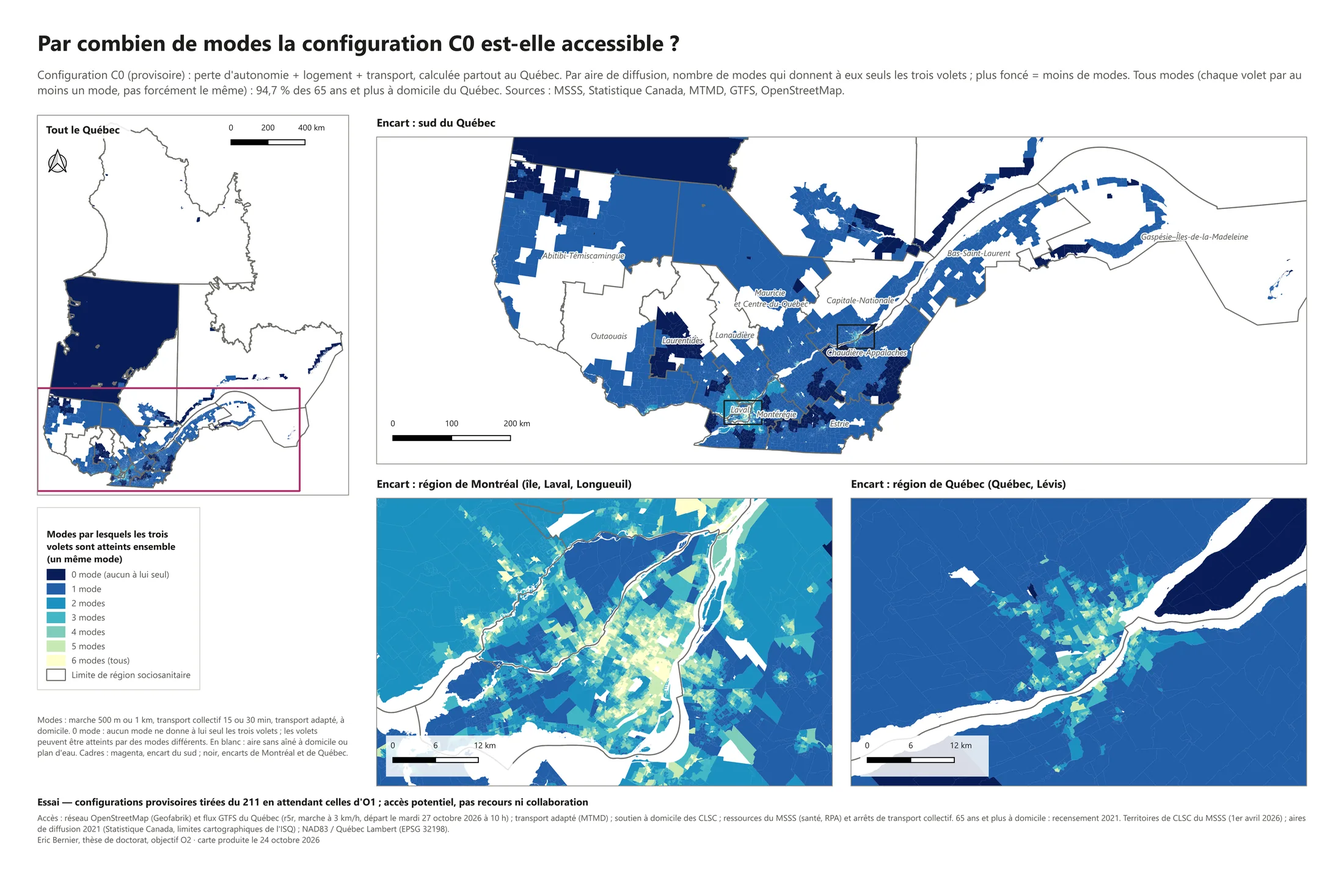
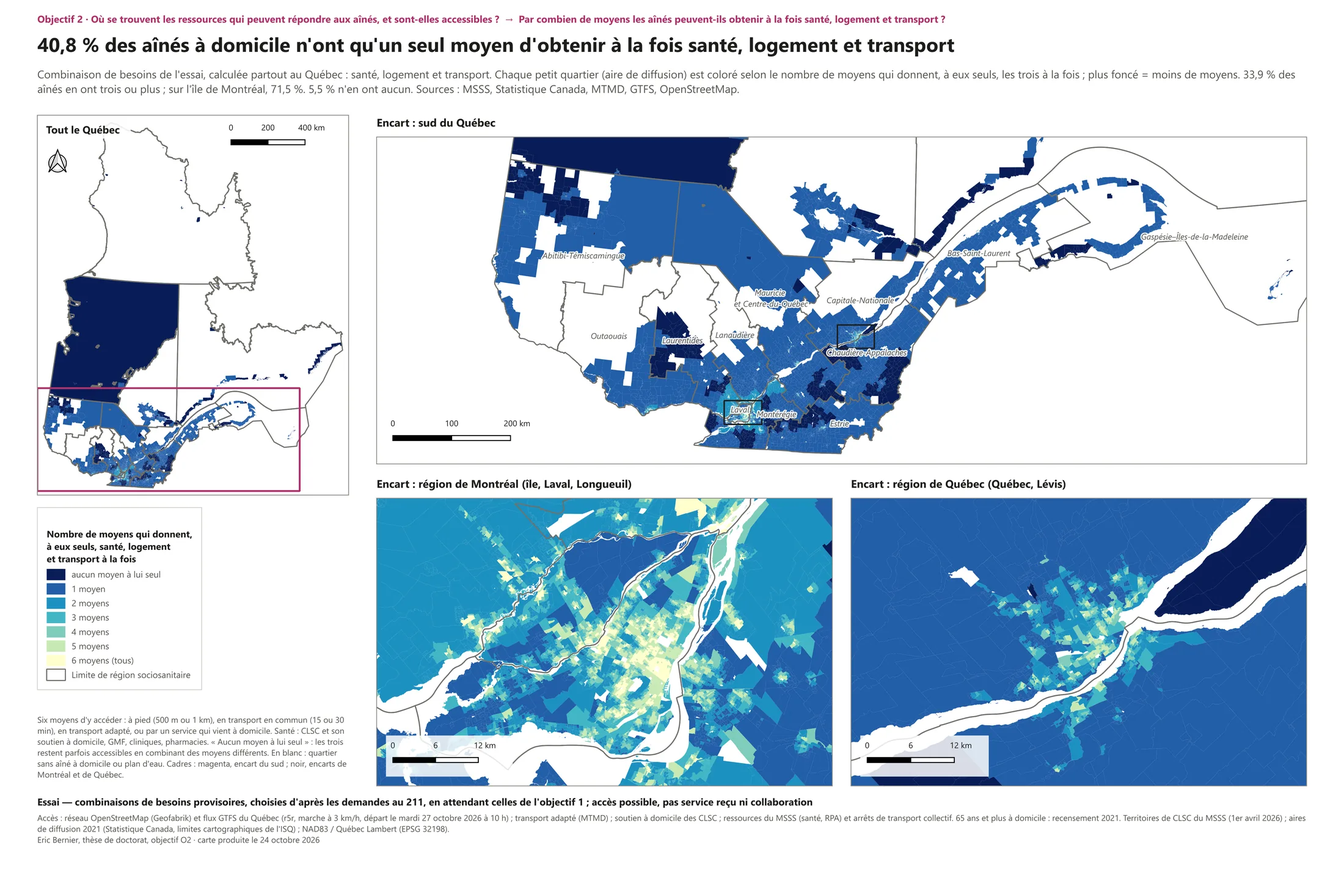
Galerie O2 : chaque carte pose une question de l'objectif 2 et donne la réponse en titre
Codes C0 et C1 remplacés par les besoins en clair (santé, logement, transport ou
soutien social), « modes » par « moyens d'accès », écart et grappes LISA par
« manque » et « groupe de quartiers en manque ». Introduction qui définit les
termes ; menu des cartes rédigé en questions.

diff --git a/index.html b/index.html
@@ -925,15 +925,15 @@ nav.these-methode-parcours[data-objectifs-isoles="oui"] .these-produit-descripti
 <h6 id="o1-plan-b-titre">Si les configurations sont insuffisamment documentées</h6>
 <p>Si les études incluses ne documentent pas suffisamment de combinaisons chez les mêmes personnes, O1 présentera les domaines, associations et lacunes <strong>recensés dans son corpus multidomaine</strong>, sans prétendre couvrir exhaustivement toutes les études consacrées à chaque domaine isolé. Tout élargissement de la recherche documentaire nécessitera une modification explicite du protocole avec le bibliothécaire et les évaluateurs (<abbr title="Joanna Briggs Institute, aujourd’hui nommé JBI" data-sigle="JBI">JBI</abbr>, 2024). La grille de repérage utilisée en O3 devra alors être redéfinie et validée avec la direction de recherche, sans fabriquer de configurations supposément démontrées.</p>
 </aside></div></details><p class="methode-transition-objectif" data-guide-methodologie="transition">La suite utilisera les configurations étayées, sans inventer de configurations ni leur fréquence sur un territoire.</p></section></div><p class="methode-transition-objectif">Les configurations d’O1 précisent les besoins à rapprocher des ressources ; l’inventaire préparatoire d’O2 peut avancer en parallèle. <a href="#these-objectif-vue-o2">Passer à l’objectif 2 →</a></p></article></section>
-<section class="these-objectif-vue methode-objectif-separe" id="these-objectif-vue-o2" data-vue-objectif="O2" aria-label="Méthodologie de l’objectif 2"><article class="these-methode-objectif" data-objectif="O2" id="these-methode-o2" data-cadrage-harmonise="oui" data-methodologie-visuelle="1" data-references-visuelles="1" data-maquette-validee="20261022"><header class="methode-objectif-tete"><h4 class="titre-bloc"><span class="objectif-code">O2</span> Cartographie spatiale</h4><p class="methode-intro-objectif">Ce deuxième volet construit un atlas des ressources intersectorielles mobilisables et accessibles pour répondre à ces configurations, selon les territoires.</p><p class="methodo-formulation-officielle">Cartographie spatiale des ressources intersectorielles mobilisables en soins et services de première ligne au regard de la répartition des aînés vivant à domicile, afin d’examiner leur distribution territoriale, leur complémentarité et leur accessibilité géographique pour les différentes configurations de perte d’autonomie et de besoins sociaux concomitants.</p><dl class="methode-fil"><div><dt>Point de départ</dt><dd>Les configurations de besoins d’O1.</dd></div><div><dt>Question</dt><dd>Où se trouvent les ressources qui peuvent y répondre, et sont-elles accessibles ?</dd></div><div><dt>Ce qui en sort</dt><dd>Un atlas des ressources mobilisables et des territoires contrastés pour O3.</dd></div></dl></header><section class="ms-exploration" id="exploration-o2"><header class="ms-phase"><span class="ms-phase-badge">A</span><div><span class="ms-eyebrow">Exercice exploratoire de faisabilité</span><h5>Essai cartographique de faisabilité</h5><p class="methode-intro-objectif" data-guide-exploration="oui">Cet exercice déjà réalisé sert à tester les outils et à préparer le protocole. Les résultats de l’essai sont distincts de la méthode doctorale prévue ci-dessous.</p></div></header><div class="ms-metrics ms-metrics-ribbon"><div class="ms-metric"><strong class="ms-metric-value">55</strong><span class="ms-metric-label">Fichiers intégrés</span></div><div class="ms-metric"><strong class="ms-metric-value">7 216</strong><span class="ms-metric-label">Lieux recensés</span></div><div class="ms-metric"><strong class="ms-metric-value">35</strong><span class="ms-metric-label">Types de services</span></div><div class="ms-metric"><strong class="ms-metric-value">6</strong><span class="ms-metric-label">Secteurs</span></div><div class="ms-metric"><strong class="ms-metric-value">8</strong><span class="ms-metric-label">Territoires de <abbr title="centre local de services communautaires" data-sigle="CLSC">CLSC</abbr></span></div><div class="ms-metric"><strong class="ms-metric-value">48</strong><span class="ms-metric-label">Cartes et graphiques</span></div></div><div class="ms-grid ms-exploration-grid"><article class="ms-card"><h6>Population</h6><p>Personnes de 65 ans et plus ; recensement de 2021 et inventaire d’octobre 2026.</p></article><article class="ms-card"><h6>Échantillon</h6><p>Lieux recensés dans huit territoires de <abbr title="centre local de services communautaires" data-sigle="CLSC">CLSC</abbr>.</p></article><article class="ms-card"><h6>Analyse</h6><p>Géocodage, inventaire intersectoriel et scénarios d’accessibilité dans R et logiciel libre de système d’information géographique (<abbr title="logiciel libre de système d’information géographique" data-sigle="QGIS">QGIS</abbr>).</p></article><article class="ms-card"><h6>Résultat</h6><p>Forts contrastes entre territoires de <abbr title="centre local de services communautaires" data-sigle="CLSC">CLSC</abbr> et contextes socioéconomiques.</p></article></div><div class="ms-lesson"><strong>Ce que l’on en retient pour la thèse</strong><p>Ces contrastes appuient le choix raisonné de territoires différents pour l’étude à mener. Le périmètre et les paramètres doctoraux restent à confirmer.</p></div><section class="ms-software"><h6>Capture du travail</h6><div class="ms-software-grid"><figure class="ms-capture"><header><strong>Positron · R</strong><span>Import et contrôle des sources</span></header><a href="assets/these/captures/capture_positron_01_import.webp" target="_blank" rel="noopener" class="ms-capture-link"><img src="assets/these/captures/capture_positron_01_import.webp" alt="O2 · Positron : le script R 01_import lit les sources sans les modifier (territoires de CLSC 2026 du MSSS, aires de diffusion et îlots 2021 de Statistique Canada) et contrôle la population." loading="lazy"></a><figcaption>Lecture des sources et premiers contrôles dans le script R. <span>Agrandir la capture ↗</span></figcaption></figure><figure class="ms-capture"><header><strong><abbr title="logiciel libre de système d’information géographique" data-sigle="QGIS">QGIS</abbr></strong><span>Visualisation et mise en page</span></header><a href="assets/these/captures/capture_qgis_mise_en_page.webp" target="_blank" rel="noopener" class="ms-capture-link"><img src="assets/these/captures/capture_qgis_mise_en_page.webp" alt="Capture de QGIS : préparation et mise en page des cartes de l’analyse exploratoire" loading="lazy" width="1600" height="900"></a><figcaption>Préparation des cartes de l’exercice spatial exploratoire. Les valeurs de la capture documentent cette version de travail. <span>Agrandir la capture ↗</span></figcaption></figure></div></section><section class="methode-exemples ms-gallery" id="methode-o2-exemples" aria-label="Exemples méthodologiques O2"><header><h6>Essai de faisabilité · 7 cartes</h6><p>Cinq cartes du Québec entier et deux du Centre-Sud de Montréal. Configurations provisoires tirées du 211, en attendant celles d’O1 ; recensement 2021 et sources officielles d’octobre 2026. Ce sont des exemples de la méthode, pas des résultats de la thèse.</p></header><section class="galerie-o2" id="galerie-o2" data-galerie-o2="" data-planche="1" role="region" aria-roledescription="visionneuse de cartes" aria-label="7 cartes de l’essai O2"><nav class="galerie-o2-commandes" aria-label="Choisir et parcourir les cartes"><div class="galerie-o2-choix"><label for="galerie-o2-choix-carte">Choisir une carte</label><select id="galerie-o2-choix-carte" data-galerie-choix="" aria-label="Choisir une des 7 cartes"><option value="1" selected="">01 · Québec · Par combien de modes la configuration C0 est-elle accessible ?</option><option value="2">02 · Québec · Accès conjoint à C0, mode par mode</option><option value="3">03 · Québec · Capacité des GMF à la portée des aînés (E2SFCA)</option><option value="4">04 · Québec · Écart potentiel C0 et grappes LISA</option><option value="5">05 · Zone du 211 · Accès conjoint à C1 et demandes au 211</option><option value="6">06 · Centre-Sud de Montréal · Accès conjoint à C1, mode par mode</option><option value="7">07 · Centre-Sud de Montréal · Écart C1 et secteurs mobilisables</option></select></div><div class="galerie-o2-pagination"><button type="button" data-galerie-precedente="" aria-label="Carte précédente" disabled="">←</button><span data-galerie-compteur="" role="status" aria-live="polite" aria-atomic="true">1 / 7</span><button type="button" data-galerie-suivante="" aria-label="Carte suivante">→</button></div><a class="galerie-o2-agrandir" data-galerie-agrandir="" href="assets/these/o2-galerie/planche-01-grand.webp?v=05d604fb19" target="_blank" rel="noopener" aria-label="Voir la première carte en haute définition">Voir en HD ↗</a></nav><div class="galerie-o2-piste" data-galerie-piste="" aria-label="Carte sélectionnée"><figure class="galerie-o2-planche" aria-label="Planche 1 sur 7"><a draggable="false" class="galerie-o2-photo" href="assets/these/o2-galerie/planche-01-grand.webp?v=05d604fb19" target="_blank" rel="noopener" aria-label="Agrandir : Québec · Par combien de modes la configuration C0 est-elle accessible ?"><img src="assets/these/o2-galerie/planche-01.webp?v=05d604fb19" alt="Québec · Par combien de modes la configuration C0 est-elle accessible ?" loading="lazy" decoding="async" draggable="false"></a><figcaption><p class="ms-gallery-caption"><strong>Québec · Par combien de modes la configuration C0 est-elle accessible ?.</strong> Par aire de diffusion, nombre de modes (0 à 6) qui donnent à eux seuls les trois volets de C0 (perte d’autonomie, logement, transport). 40,8 % des aînés à domicile n’ont qu’un mode et 5,5 % n’en ont aucun ; sur l’île de Montréal, 71,4 % en ont trois ou plus.</p></figcaption></figure><figure class="galerie-o2-planche" aria-label="Planche 2 sur 7" hidden=""><a draggable="false" class="galerie-o2-photo" href="assets/these/o2-galerie/planche-02-grand.webp?v=0db10f492a" target="_blank" rel="noopener" aria-label="Agrandir : Québec · Accès conjoint à C0, mode par mode"><img src="assets/these/o2-galerie/planche-02.webp?v=0db10f492a" alt="Québec · Accès conjoint à C0, mode par mode" loading="lazy" decoding="async" draggable="false"></a><figcaption><p class="ms-gallery-caption"><strong>Québec · Accès conjoint à C0, mode par mode.</strong> Un panneau par mode, par territoire de <abbr title="centre local de services communautaires" data-sigle="CLSC">CLSC</abbr>. À pied, l’accès conjoint reste rare (9,9 % à 500 m, 29,8 % à 1 km) ; en transport collectif, 20,4 % à 15 min et 44,8 % à 30 min ; le transport adapté porte l’essentiel (93,9 %). Un mode n’en remplace pas un autre.</p></figcaption></figure><figure class="galerie-o2-planche" aria-label="Planche 3 sur 7" hidden=""><a draggable="false" class="galerie-o2-photo" href="assets/these/o2-galerie/planche-03-grand.webp?v=352b1ef9bf" target="_blank" rel="noopener" aria-label="Agrandir : Québec · Capacité des GMF à la portée des aînés (E2SFCA)"><img src="assets/these/o2-galerie/planche-03.webp?v=352b1ef9bf" alt="Québec · Capacité des GMF à la portée des aînés (E2SFCA)" loading="lazy" decoding="async" draggable="false"></a><figcaption><p class="ms-gallery-caption"><strong>Québec · Capacité des GMF à la portée des aînés (E2SFCA).</strong> Patients inscrits en <abbr title="groupe de médecine de famille" data-sigle="GMF">GMF</abbr> joignables en 30 min, pour 1 000 aînés à domicile : 2 918 en moyenne au Québec, de 0 à 10 683 selon le <abbr title="centre local de services communautaires" data-sigle="CLSC">CLSC</abbr>. Vingt territoires n’ont aucun <abbr title="groupe de médecine de famille" data-sigle="GMF">GMF</abbr> joignable. Les inscrits sont de tous âges : c’est une capacité potentielle, pas un accès au médecin.</p></figcaption></figure><figure class="galerie-o2-planche" aria-label="Planche 4 sur 7" hidden=""><a draggable="false" class="galerie-o2-photo" href="assets/these/o2-galerie/planche-04-grand.webp?v=6437b3db28" target="_blank" rel="noopener" aria-label="Agrandir : Québec · Écart potentiel C0 et grappes LISA"><img src="assets/these/o2-galerie/planche-04.webp?v=6437b3db28" alt="Québec · Écart potentiel C0 et grappes LISA" loading="lazy" decoding="async" draggable="false"></a><figcaption><p class="ms-gallery-caption"><strong>Québec · Écart potentiel C0 et grappes LISA.</strong> Écart = vulnérabilité × (1 − couverture). Les grappes « élevé-élevé » (428 aires, 3,3 % des aînés à domicile) se trouvent surtout en Chaudière-Appalaches, dans les Laurentides et en Estrie. Un regroupement signale un cumul local, pas une cause.</p></figcaption></figure><figure class="galerie-o2-planche" aria-label="Planche 5 sur 7" hidden=""><a draggable="false" class="galerie-o2-photo" href="assets/these/o2-galerie/planche-05-grand.webp?v=5d1a4ad7c6" target="_blank" rel="noopener" aria-label="Agrandir : Zone du 211 · Accès conjoint à C1 et demandes au 211"><img src="assets/these/o2-galerie/planche-05.webp?v=5d1a4ad7c6" alt="Zone du 211 · Accès conjoint à C1 et demandes au 211" loading="lazy" decoding="async" draggable="false"></a><figcaption><p class="ms-gallery-caption"><strong>Zone du 211 · Accès conjoint à C1 et demandes au 211.</strong> C1 (perte d’autonomie, logement, soutien) se calcule seulement là où le répertoire du 211 est complet : 96,1 % des aînés à domicile y ont les trois volets. Hachures : « non recensé », pas « absent ». Encart : 15 170 demandes des 60 ans et plus en 2024-2025, dont 432 non comblées.</p></figcaption></figure><figure class="galerie-o2-planche" aria-label="Planche 6 sur 7" hidden=""><a draggable="false" class="galerie-o2-photo" href="assets/these/o2-galerie/planche-06-grand.webp?v=e045089b4a" target="_blank" rel="noopener" aria-label="Agrandir : Centre-Sud de Montréal · Accès conjoint à C1, mode par mode"><img src="assets/these/o2-galerie/planche-06.webp?v=e045089b4a" alt="Centre-Sud de Montréal · Accès conjoint à C1, mode par mode" loading="lazy" decoding="async" draggable="false"></a><figcaption><p class="ms-gallery-caption"><strong>Centre-Sud de Montréal · Accès conjoint à C1, mode par mode.</strong> Zoom sur les huit territoires de <abbr title="centre local de services communautaires" data-sigle="CLSC">CLSC</abbr> du CCSMTL (39 175 aînés à domicile). Marche 500 m : 50,3 % ; 1 km : 78,3 % ; transport collectif 15 min : 71,0 % ; 30 min : 97,1 % ; à domicile : 43,9 %. Tous modes : 100 %.</p></figcaption></figure><figure class="galerie-o2-planche" aria-label="Planche 7 sur 7" hidden=""><a draggable="false" class="galerie-o2-photo" href="assets/these/o2-galerie/planche-07-grand.webp?v=e264d80835" target="_blank" rel="noopener" aria-label="Agrandir : Centre-Sud de Montréal · Écart C1 et secteurs mobilisables"><img src="assets/these/o2-galerie/planche-07.webp?v=e264d80835" alt="Centre-Sud de Montréal · Écart C1 et secteurs mobilisables" loading="lazy" decoding="async" draggable="false"></a><figcaption><p class="ms-gallery-caption"><strong>Centre-Sud de Montréal · Écart C1 et secteurs mobilisables.</strong> Aucun écart positif ni aucune grappe « élevé-élevé » au CCSMTL pour C1. Partout, quatre secteurs couvrent ensemble la configuration : la proximité y est forte ; reste à savoir, en O3, si ces organisations collaborent.</p></figcaption></figure></div></section></section><details class="ms-archive"><summary>Figures, sources et détails de l’exploration</summary><div class="ms-archive-body" id="exploration-o2-documents"><section class="methodo-exploration"><h6>Un essai sur tout le Québec pour éprouver la méthode</h6><p>J’ai fait tourner toute la chaîne d’O2 sur le Québec entier, de la source à la carte, avec des banques officielles. Seule entorse : les configurations sont provisoires, tirées des demandes les plus fréquentes et les moins comblées au 211 chez les 60 ans et plus ; la thèse utilisera celles d’O1. Le Centre-Sud de Montréal (huit territoires de <abbr title="centre local de services communautaires" data-sigle="CLSC">CLSC</abbr> du CCSMTL) sert de zoom.</p><div class="methodo-chiffres"><div><b>94,7 %</b><span>aînés à domicile ayant accès à C0 par au moins un mode</span></div><div><b>9,9 %</b><span>la même chose à 10 min de marche</span></div><div><b>428</b><span>aires en grappe d’écart élevé (C0)</span></div></div><ol class="methodo-parcours"><li><strong>Constat</strong><span>L’accès conjoint dépend presque partout d’un seul mode, souvent le transport adapté</span></li><li><strong>Contraste</strong><span>Montréal : trois modes ou plus pour 71,4 % des aînés ; ailleurs, souvent un seul</span></li><li><strong>Usage pour O3</strong><span>Présélectionner des territoires contrastés, puis confirmer l’accès au terrain</span></li></ol><p class="methodo-note">C0 réunit perte d’autonomie, logement et transport, les trois domaines couverts partout par des sources officielles. Les chiffres décrivent une accessibilité potentielle, pas des services reçus ni des collaborations.</p><p><a href="#methode-o2-exemples">Voir les cartes de l’essai ↓</a></p></section><section class="o2-mapping-verification" aria-labelledby="o2-mapping-verification-titre">
+<section class="these-objectif-vue methode-objectif-separe" id="these-objectif-vue-o2" data-vue-objectif="O2" aria-label="Méthodologie de l’objectif 2"><article class="these-methode-objectif" data-objectif="O2" id="these-methode-o2" data-cadrage-harmonise="oui" data-methodologie-visuelle="1" data-references-visuelles="1" data-maquette-validee="20261022"><header class="methode-objectif-tete"><h4 class="titre-bloc"><span class="objectif-code">O2</span> Cartographie spatiale</h4><p class="methode-intro-objectif">Ce deuxième volet construit un atlas des ressources intersectorielles mobilisables et accessibles pour répondre à ces configurations, selon les territoires.</p><p class="methodo-formulation-officielle">Cartographie spatiale des ressources intersectorielles mobilisables en soins et services de première ligne au regard de la répartition des aînés vivant à domicile, afin d’examiner leur distribution territoriale, leur complémentarité et leur accessibilité géographique pour les différentes configurations de perte d’autonomie et de besoins sociaux concomitants.</p><dl class="methode-fil"><div><dt>Point de départ</dt><dd>Les configurations de besoins d’O1.</dd></div><div><dt>Question</dt><dd>Où se trouvent les ressources qui peuvent y répondre, et sont-elles accessibles ?</dd></div><div><dt>Ce qui en sort</dt><dd>Un atlas des ressources mobilisables et des territoires contrastés pour O3.</dd></div></dl></header><section class="ms-exploration" id="exploration-o2"><header class="ms-phase"><span class="ms-phase-badge">A</span><div><span class="ms-eyebrow">Exercice exploratoire de faisabilité</span><h5>Essai cartographique de faisabilité</h5><p class="methode-intro-objectif" data-guide-exploration="oui">Cet exercice déjà réalisé sert à tester les outils et à préparer le protocole. Les résultats de l’essai sont distincts de la méthode doctorale prévue ci-dessous.</p></div></header><div class="ms-metrics ms-metrics-ribbon"><div class="ms-metric"><strong class="ms-metric-value">55</strong><span class="ms-metric-label">Fichiers intégrés</span></div><div class="ms-metric"><strong class="ms-metric-value">7 216</strong><span class="ms-metric-label">Lieux recensés</span></div><div class="ms-metric"><strong class="ms-metric-value">35</strong><span class="ms-metric-label">Types de services</span></div><div class="ms-metric"><strong class="ms-metric-value">6</strong><span class="ms-metric-label">Secteurs</span></div><div class="ms-metric"><strong class="ms-metric-value">8</strong><span class="ms-metric-label">Territoires de <abbr title="centre local de services communautaires" data-sigle="CLSC">CLSC</abbr></span></div><div class="ms-metric"><strong class="ms-metric-value">48</strong><span class="ms-metric-label">Cartes et graphiques</span></div></div><div class="ms-grid ms-exploration-grid"><article class="ms-card"><h6>Population</h6><p>Personnes de 65 ans et plus ; recensement de 2021 et inventaire d’octobre 2026.</p></article><article class="ms-card"><h6>Échantillon</h6><p>Lieux recensés dans huit territoires de <abbr title="centre local de services communautaires" data-sigle="CLSC">CLSC</abbr>.</p></article><article class="ms-card"><h6>Analyse</h6><p>Géocodage, inventaire intersectoriel et scénarios d’accessibilité dans R et logiciel libre de système d’information géographique (<abbr title="logiciel libre de système d’information géographique" data-sigle="QGIS">QGIS</abbr>).</p></article><article class="ms-card"><h6>Résultat</h6><p>Forts contrastes entre territoires de <abbr title="centre local de services communautaires" data-sigle="CLSC">CLSC</abbr> et contextes socioéconomiques.</p></article></div><div class="ms-lesson"><strong>Ce que l’on en retient pour la thèse</strong><p>Ces contrastes appuient le choix raisonné de territoires différents pour l’étude à mener. Le périmètre et les paramètres doctoraux restent à confirmer.</p></div><section class="ms-software"><h6>Capture du travail</h6><div class="ms-software-grid"><figure class="ms-capture"><header><strong>Positron · R</strong><span>Import et contrôle des sources</span></header><a href="assets/these/captures/capture_positron_01_import.webp" target="_blank" rel="noopener" class="ms-capture-link"><img src="assets/these/captures/capture_positron_01_import.webp" alt="O2 · Positron : le script R 01_import lit les sources sans les modifier (territoires de CLSC 2026 du MSSS, aires de diffusion et îlots 2021 de Statistique Canada) et contrôle la population." loading="lazy"></a><figcaption>Lecture des sources et premiers contrôles dans le script R. <span>Agrandir la capture ↗</span></figcaption></figure><figure class="ms-capture"><header><strong><abbr title="logiciel libre de système d’information géographique" data-sigle="QGIS">QGIS</abbr></strong><span>Visualisation et mise en page</span></header><a href="assets/these/captures/capture_qgis_mise_en_page.webp" target="_blank" rel="noopener" class="ms-capture-link"><img src="assets/these/captures/capture_qgis_mise_en_page.webp" alt="Capture de QGIS : préparation et mise en page des cartes de l’analyse exploratoire" loading="lazy" width="1600" height="900"></a><figcaption>Préparation des cartes de l’exercice spatial exploratoire. Les valeurs de la capture documentent cette version de travail. <span>Agrandir la capture ↗</span></figcaption></figure></div></section><section class="methode-exemples ms-gallery" id="methode-o2-exemples" aria-label="Exemples méthodologiques O2"><header><h6>Essai de faisabilité · 7 questions, 7 cartes</h6><p>Chaque carte répond à une question de l’objectif 2 : <strong>où se trouvent les ressources qui peuvent répondre aux aînés à domicile, et sont-elles accessibles ?</strong> La réponse est écrite en titre de la carte.</p><p>L’essai regarde deux combinaisons de besoins, choisies d’après les demandes d’aide au 211 : <strong>santé, logement et transport</strong>, partout au Québec ; <strong>santé, logement et soutien social</strong>, là où le 211 recense les organismes. La santé comprend le <abbr title="centre local de services communautaires" data-sigle="CLSC">CLSC</abbr> et son soutien à domicile, les <abbr title="groupe de médecine de famille" data-sigle="GMF">GMF</abbr>, les cliniques et les pharmacies.</p><p>Six moyens d’y accéder : à pied (500 m ou 1 km), en transport en commun (15 ou 30 min), en transport adapté, ou par un service qui vient à domicile.</p><p>Ce sont des exemples de la méthode, pas des résultats de la thèse : la thèse utilisera les combinaisons de besoins de l’objectif 1 et le recensement de 2026.</p></header><section class="galerie-o2" id="galerie-o2" data-galerie-o2="" data-planche="1" role="region" aria-roledescription="visionneuse de cartes" aria-label="7 cartes de l’essai O2"><nav class="galerie-o2-commandes" aria-label="Choisir et parcourir les cartes"><div class="galerie-o2-choix"><label for="galerie-o2-choix-carte">Choisir une question</label><select id="galerie-o2-choix-carte" data-galerie-choix="" aria-label="Choisir une des 7 cartes"><option value="1" selected="">01 · Québec · Par combien de moyens les aînés obtiennent-ils santé, logement et transport ?</option><option value="2">02 · Québec · Par quel moyen obtiennent-ils santé, logement et transport ?</option><option value="3">03 · Québec · Les médecins de famille à portée des aînés ont-ils de la capacité ?</option><option value="4">04 · Québec · Où les aînés vulnérables manquent-ils de santé, de logement et de transport ?</option><option value="5">05 · Régions du 211 · Avec le soutien social du communautaire, les aînés peuvent-ils tout obtenir ?</option><option value="6">06 · Centre-Sud de Montréal · Par quel moyen les aînés obtiennent-ils santé, logement et soutien social ?</option><option value="7">07 · Centre-Sud de Montréal · Où manque-t-il des ressources, et combien de secteurs répondent ensemble ?</option></select></div><div class="galerie-o2-pagination"><button type="button" data-galerie-precedente="" aria-label="Carte précédente" disabled="">←</button><span data-galerie-compteur="" role="status" aria-live="polite" aria-atomic="true">1 / 7</span><button type="button" data-galerie-suivante="" aria-label="Carte suivante">→</button></div><a class="galerie-o2-agrandir" data-galerie-agrandir="" href="assets/these/o2-galerie/planche-01-grand.webp?v=0e2f365155" target="_blank" rel="noopener" aria-label="Voir la première carte en haute définition">Voir en HD ↗</a></nav><div class="galerie-o2-piste" data-galerie-piste="" aria-label="Carte sélectionnée"><figure class="galerie-o2-planche" aria-label="Planche 1 sur 7"><a draggable="false" class="galerie-o2-photo" href="assets/these/o2-galerie/planche-01-grand.webp?v=0e2f365155" target="_blank" rel="noopener" aria-label="Agrandir : Québec · Par combien de moyens les aînés obtiennent-ils santé, logement et transport ?"><img src="assets/these/o2-galerie/planche-01.webp?v=0e2f365155" alt="Québec · Par combien de moyens les aînés obtiennent-ils santé, logement et transport ?" loading="lazy" decoding="async" draggable="false"></a><figcaption><p class="ms-gallery-caption"><strong>Réponse : 4 aînés à domicile sur 10 n’ont qu’un seul moyen d’obtenir à la fois santé, logement et transport.</strong> Chaque petit quartier est coloré selon le nombre de moyens qui donnent, à eux seuls, les trois à la fois. Sur l’île de Montréal, 71 % des aînés en ont au moins trois ; ailleurs, ils en ont souvent un seul. 5,5 % n’en ont aucun.</p></figcaption></figure><figure class="galerie-o2-planche" aria-label="Planche 2 sur 7" hidden=""><a draggable="false" class="galerie-o2-photo" href="assets/these/o2-galerie/planche-02-grand.webp?v=5603d96bb4" target="_blank" rel="noopener" aria-label="Agrandir : Québec · Par quel moyen obtiennent-ils santé, logement et transport ?"><img src="assets/these/o2-galerie/planche-02.webp?v=5603d96bb4" alt="Québec · Par quel moyen obtiennent-ils santé, logement et transport ?" loading="lazy" decoding="async" draggable="false"></a><figcaption><p class="ms-gallery-caption"><strong>Réponse : À pied, seuls 10 % des aînés ont les trois à 10 min de chez eux ; le transport adapté porte presque tout l’accès.</strong> Un panneau par moyen, par territoire de <abbr title="centre local de services communautaires" data-sigle="CLSC">CLSC</abbr>. À pied : 9,9 % à 500 m, 29,8 % à 1 km. En transport en commun : 20,4 % à 15 min, 44,8 % à 30 min. Transport adapté : 93,9 %, mais il faut y être admis selon ses incapacités. Service à domicile : 24,8 %.</p></figcaption></figure><figure class="galerie-o2-planche" aria-label="Planche 3 sur 7" hidden=""><a draggable="false" class="galerie-o2-photo" href="assets/these/o2-galerie/planche-03-grand.webp?v=ba1c7548d1" target="_blank" rel="noopener" aria-label="Agrandir : Québec · Les médecins de famille à portée des aînés ont-ils de la capacité ?"><img src="assets/these/o2-galerie/planche-03.webp?v=ba1c7548d1" alt="Québec · Les médecins de famille à portée des aînés ont-ils de la capacité ?" loading="lazy" decoding="async" draggable="false"></a><figcaption><p class="ms-gallery-caption"><strong>Réponse : 58 % des aînés à domicile n’ont aucun groupe de médecine de famille à 30 min à pied ou en transport en commun.</strong> Pour chaque territoire de <abbr title="centre local de services communautaires" data-sigle="CLSC">CLSC</abbr> : patients inscrits dans les <abbr title="groupe de médecine de famille" data-sigle="GMF">GMF</abbr> joignables en 30 min, partagés entre tous les aînés qui peuvent les joindre, pour 1 000 aînés. Vingt territoires n’ont aucun <abbr title="groupe de médecine de famille" data-sigle="GMF">GMF</abbr> joignable. Les inscrits sont de tous âges : c’est une capacité possible, pas un rendez-vous garanti.</p></figcaption></figure><figure class="galerie-o2-planche" aria-label="Planche 4 sur 7" hidden=""><a draggable="false" class="galerie-o2-photo" href="assets/these/o2-galerie/planche-04-grand.webp?v=a9084c2467" target="_blank" rel="noopener" aria-label="Agrandir : Québec · Où les aînés vulnérables manquent-ils de santé, de logement et de transport ?"><img src="assets/these/o2-galerie/planche-04.webp?v=a9084c2467" alt="Québec · Où les aînés vulnérables manquent-ils de santé, de logement et de transport ?" loading="lazy" decoding="async" draggable="false"></a><figcaption><p class="ms-gallery-caption"><strong>Réponse : Les manques se regroupent surtout en Chaudière-Appalaches, dans les Laurentides et en Estrie.</strong> Plus un quartier est rouge, plus ses aînés sont défavorisés et plus il leur manque de ces trois ressources. Le contour noir entoure des groupes de quartiers voisins tous en manque (428 quartiers, 3,3 % des aînés). Ce sont des territoires contrastés à étudier en objectif 3.</p></figcaption></figure><figure class="galerie-o2-planche" aria-label="Planche 5 sur 7" hidden=""><a draggable="false" class="galerie-o2-photo" href="assets/these/o2-galerie/planche-05-grand.webp?v=57c969bb78" target="_blank" rel="noopener" aria-label="Agrandir : Régions du 211 · Avec le soutien social du communautaire, les aînés peuvent-ils tout obtenir ?"><img src="assets/these/o2-galerie/planche-05.webp?v=57c969bb78" alt="Régions du 211 · Avec le soutien social du communautaire, les aînés peuvent-ils tout obtenir ?" loading="lazy" decoding="async" draggable="false"></a><figcaption><p class="ms-gallery-caption"><strong>Réponse : Là où le 211 recense les organismes, 96 % des aînés ont à la fois santé, logement et soutien social.</strong> Le soutien social vient surtout des organismes communautaires, connus seulement dans les six régions du répertoire du 211. Ailleurs, les hachures veulent dire « inconnu », pas « absent ». Territoire le plus faible : Haut-Saint-Laurent (0 %). Encart : 15 170 demandes d’aide des 60 ans et plus au 211 en 2024-2025, dont 432 restées sans réponse.</p></figcaption></figure><figure class="galerie-o2-planche" aria-label="Planche 6 sur 7" hidden=""><a draggable="false" class="galerie-o2-photo" href="assets/these/o2-galerie/planche-06-grand.webp?v=fe3be8c8ad" target="_blank" rel="noopener" aria-label="Agrandir : Centre-Sud de Montréal · Par quel moyen les aînés obtiennent-ils santé, logement et soutien social ?"><img src="assets/these/o2-galerie/planche-06.webp?v=fe3be8c8ad" alt="Centre-Sud de Montréal · Par quel moyen les aînés obtiennent-ils santé, logement et soutien social ?" loading="lazy" decoding="async" draggable="false"></a><figcaption><p class="ms-gallery-caption"><strong>Réponse : À 10 min de marche, la moitié des aînés du Centre-Sud ont les trois ; en combinant les moyens, tous les ont.</strong> Bleu : les trois par ce seul moyen ; orange : non. À 10 min de marche, Verdun et Saint-Paul sont les plus faibles (19 %). Le service à domicile ne couvre que 43,9 % des aînés.</p></figcaption></figure><figure class="galerie-o2-planche" aria-label="Planche 7 sur 7" hidden=""><a draggable="false" class="galerie-o2-photo" href="assets/these/o2-galerie/planche-07-grand.webp?v=afed66e8d7" target="_blank" rel="noopener" aria-label="Agrandir : Centre-Sud de Montréal · Où manque-t-il des ressources, et combien de secteurs répondent ensemble ?"><img src="assets/these/o2-galerie/planche-07.webp?v=afed66e8d7" alt="Centre-Sud de Montréal · Où manque-t-il des ressources, et combien de secteurs répondent ensemble ?" loading="lazy" decoding="async" draggable="false"></a><figcaption><p class="ms-gallery-caption"><strong>Réponse : Au Centre-Sud, aucun quartier ne manque de santé, de logement ni de soutien social ; 4 secteurs y répondent ensemble.</strong> Le problème n’y est pas l’absence de ressources. La question devient : ces organisations travaillent-elles ensemble ? C’est l’objet de l’objectif 3.</p></figcaption></figure></div></section></section><details class="ms-archive"><summary>Figures, sources et détails de l’exploration</summary><div class="ms-archive-body" id="exploration-o2-documents"><section class="methodo-exploration"><h6>Un essai sur tout le Québec pour éprouver la méthode</h6><p>J’ai fait tourner toute la chaîne d’O2 sur le Québec entier, de la source à la carte, avec des banques officielles. Seule entorse : les combinaisons de besoins sont provisoires, tirées des demandes les plus fréquentes et les moins comblées au 211 chez les 60 ans et plus ; la thèse utilisera celles de l’objectif 1. Le Centre-Sud de Montréal (huit territoires de <abbr title="centre local de services communautaires" data-sigle="CLSC">CLSC</abbr> du CCSMTL) sert de zoom.</p><div class="methodo-chiffres"><div><b>94,7 %</b><span>des aînés à domicile peuvent obtenir santé, logement et transport, en combinant les moyens</span></div><div><b>9,9 %</b><span>seulement à 10 min de marche</span></div><div><b>428</b><span>quartiers où des aînés vulnérables manquent de ces ressources</span></div></div><ol class="methodo-parcours"><li><strong>Constat</strong><span>L’accès tient souvent à un seul moyen, surtout le transport adapté, qui exige une admission</span></li><li><strong>Contraste</strong><span>Île de Montréal : 71 % des aînés ont au moins trois moyens ; ailleurs, souvent un seul</span></li><li><strong>Usage pour O3</strong><span>Présélectionner des territoires contrastés, puis confirmer l’accès au terrain</span></li></ol><p class="methodo-note">Santé, logement et transport : les trois besoins que des sources officielles couvrent partout au Québec. Les chiffres décrivent un accès possible, pas des services reçus ni des collaborations.</p><p><a href="#methode-o2-exemples">Voir les cartes de l’essai ↓</a></p></section><section class="o2-mapping-verification" aria-labelledby="o2-mapping-verification-titre">
  <div class="o2-mapping-verification-tete"><h6 id="o2-mapping-verification-titre">Ce que l’essai a déjà éprouvé</h6><span>Essai de faisabilité · Québec entier</span></div>
  <div class="o2-mapping-verification-grille">
   <div><b>01 · Population</b><strong><span class="o2-stat-valeur">13 336</span><span>aires de diffusion habitées</span></strong><span>1 590 525 aînés à domicile (recensement 2021), rattachés à 166 <abbr title="centre local de services communautaires" data-sigle="CLSC">CLSC</abbr> et 97 <abbr title="réseau local de services" data-sigle="RLS">RLS</abbr>.</span></div>
-  <div><b>02 · Trajets</b><strong><span class="o2-stat-valeur">6</span><span>modes en parallèle</span></strong><span>Réseau OpenStreetMap découpé en six zones, 31 flux GTFS, transport adapté et réponse à domicile.</span></div>
-  <div><b>03 · Mesures</b><strong><span class="o2-stat-valeur">4</span><span>configurations provisoires</span></strong><span>Offre, accès, capacité E2SFCA, vulnérabilité, accès conjoint, écart et Moran local.</span></div>
+  <div><b>02 · Trajets</b><strong><span class="o2-stat-valeur">6</span><span>moyens d’accès en parallèle</span></strong><span>Réseau OpenStreetMap découpé en six zones, 31 flux GTFS, transport adapté et réponse à domicile.</span></div>
+  <div><b>03 · Mesures</b><strong><span class="o2-stat-valeur">4</span><span>combinaisons de besoins provisoires</span></strong><span>Offre, accès, capacité des services, vulnérabilité, accès aux besoins à la fois, manques et regroupements.</span></div>
   <div><b>04 · Robustesse</b><strong><span class="o2-stat-valeur">3</span><span>variantes de sensibilité</span></strong><span>Sans correspondances partielles, marche courte à 15 min, sans réponse à domicile du 211.</span></div>
  </div>
- <div class="o2-mapping-verification-suite"><strong>Pour le protocole :</strong> réutiliser la chaîne testée, puis recalculer avec les configurations d’O1 et le recensement 2026. Les résultats de l’essai ne sont pas des résultats de la thèse.</div>
+ <div class="o2-mapping-verification-suite"><strong>Pour le protocole :</strong> réutiliser la chaîne testée, puis recalculer avec les combinaisons de besoins de l’objectif 1 et le recensement 2026. Les résultats de l’essai ne sont pas des résultats de la thèse.</div>
 </section><section class="o2-lecture-secteurs" aria-labelledby="o2-lecture-secteurs-titre">
 <header class="o2-lecture-secteurs-tete"><h6>Lecture intersectorielle des indicateurs</h6><span>Ventilation des variables déjà prévues</span></header>
 <div class="o2-lecture-secteurs-grille">
